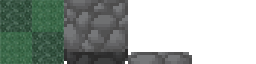
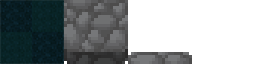
Animação bomba

Changed region(s): [[0.0, 0.0, 0.25, 1.0]]

diff --git a/scene_map.c b/scene_map.c
@@ -7,6 +7,8 @@ Scene_Map* SceneMap_new() {
     newScene->keyDown = false;
     newScene->keyUp = false;
     newScene->tileMap = WD_CreateTexture();
+    newScene->animatedBomb = WD_CreateTexture();
+    WD_TextureLoadFromFile(newScene->animatedBomb, "content/FSD.png");
     WD_TextureLoadFromFile(newScene->tileMap, "content/tilemaster.png");
     Map_RenderFull(Game.map, newScene->tileMap);
     newScene->bombSprite = WD_CreateTexture();
@@ -20,6 +22,7 @@ Scene_Map* SceneMap_new() {
     newScene->player = Game.map->characters[Network.clientId];
     newScene->renderCharacters = malloc(Game.map->charNumber * sizeof(int));
     newScene->waitingConnection = false;
+    newScene->currentFrame = 0;
     for(int i = 0; i < 20; i++) {
         newScene->bombs[i].active = false;
         newScene->explosions[i].active = false;
@@ -40,9 +43,14 @@ int compareCharacters(const void * a, const void * b) {
     return ( chars[i]->renderY - chars[j]->renderY );
 }
 
-Bomb_Render(Bomb* b, int screenX, int screenY, WTexture* bombSprite) {
+Bomb_Render(Bomb* b, int screenX, int screenY, WTexture* bombSprite, int currentFrame) {
     if(b->active) {
-        WD_TextureRender(bombSprite, (b->x * TILE_SIZE - screenX), (b->y * TILE_SIZE - screenY));
+        if (currentFrame % 20 == 0) {
+            b->frame++;
+        }
+        SDL_Rect clip = { 0, 64 * b->frame, 64, 64 };
+        WD_TextureRenderExCustom(bombSprite, (b->x * TILE_SIZE - screenX), (b->y * TILE_SIZE - screenY), &clip, 0.0, NULL, SDL_FLIP_NONE, 64, 64);
+     //   WD_TextureRender(bombSprite, (b->x * TILE_SIZE - screenX), (b->y * TILE_SIZE - screenY));
     }
 }
 
@@ -140,6 +148,7 @@ void SceneMap_update(Scene_Map* s) {
                     int id, x, y;
                     sscanf(data + 4, "%d %d %d", &id, &x, &y);
                     s->bombs[id].active = true;
+                    s->bombs[id].frame = 0;
                     s->bombs[id].x = x;
                     s->bombs[id].y = y;
                     Game.map->objects[y][x].exists = true;
@@ -247,7 +256,7 @@ void SceneMap_update(Scene_Map* s) {
     Map_RenderWalls(Game.map, s->wallTexture, s->screenX, s->screenY);
     
     for(int i = 0; i < 20; i++) {
-        Bomb_Render(&s->bombs[i], s->screenX, s->screenY, s->bombSprite);
+        Bomb_Render(&s->bombs[i], s->screenX, s->screenY, s->animatedBomb, s->currentFrame);
     }
 
     for(int i = 0; i < 20; i++) {
@@ -264,6 +273,10 @@ void SceneMap_update(Scene_Map* s) {
         }
     }
     SDL_RenderCopy(Game.renderer, Game.map->layers[2], &renderQuad, &dstRect);
+    s->currentFrame++;
+    if (s->currentFrame >= 60) {
+        s->currentFrame = 0;
+    }
 }
 
 void SceneMap_handleEvent(Scene_Map* s, SDL_Event* e) {
@@ -386,5 +399,6 @@ void SceneMap_destroy(Scene_Map* s) {
     WD_TextureDestroy(s->bombSprite);
     WD_TextureDestroy(s->explosionSprite);
     WD_TextureDestroy(s->wallTexture);
+    WD_TextureDestroy(s->animatedBomb);
     free(s);
 }

diff --git a/scene_map.h b/scene_map.h
@@ -13,6 +13,7 @@ typedef struct SceneManagerS SceneManagerS;
 typedef struct Bomb {
     int x, y;
     bool active;
+    int frame;
 } Bomb;
 
 typedef struct Explosion {
@@ -27,6 +28,7 @@ Explosion_Render(Explosion* e, int screenX, int screenY, WTexture* explosionSpri
 
 typedef struct Scene_Map {
     WTexture* tileMap;
+    WTexture* animatedBomb;
     WTexture *bombSprite, *explosionSprite;
     WTexture* wallTexture;
     Map* map;
@@ -44,6 +46,7 @@ typedef struct Scene_Map {
     bool keyUp, keyDown, keyRight, keyLeft;
     Bomb bombs[20];
     Explosion explosions[20];
+    int currentFrame;
 } Scene_Map;
 
 Scene_Map* SceneMap_new();
